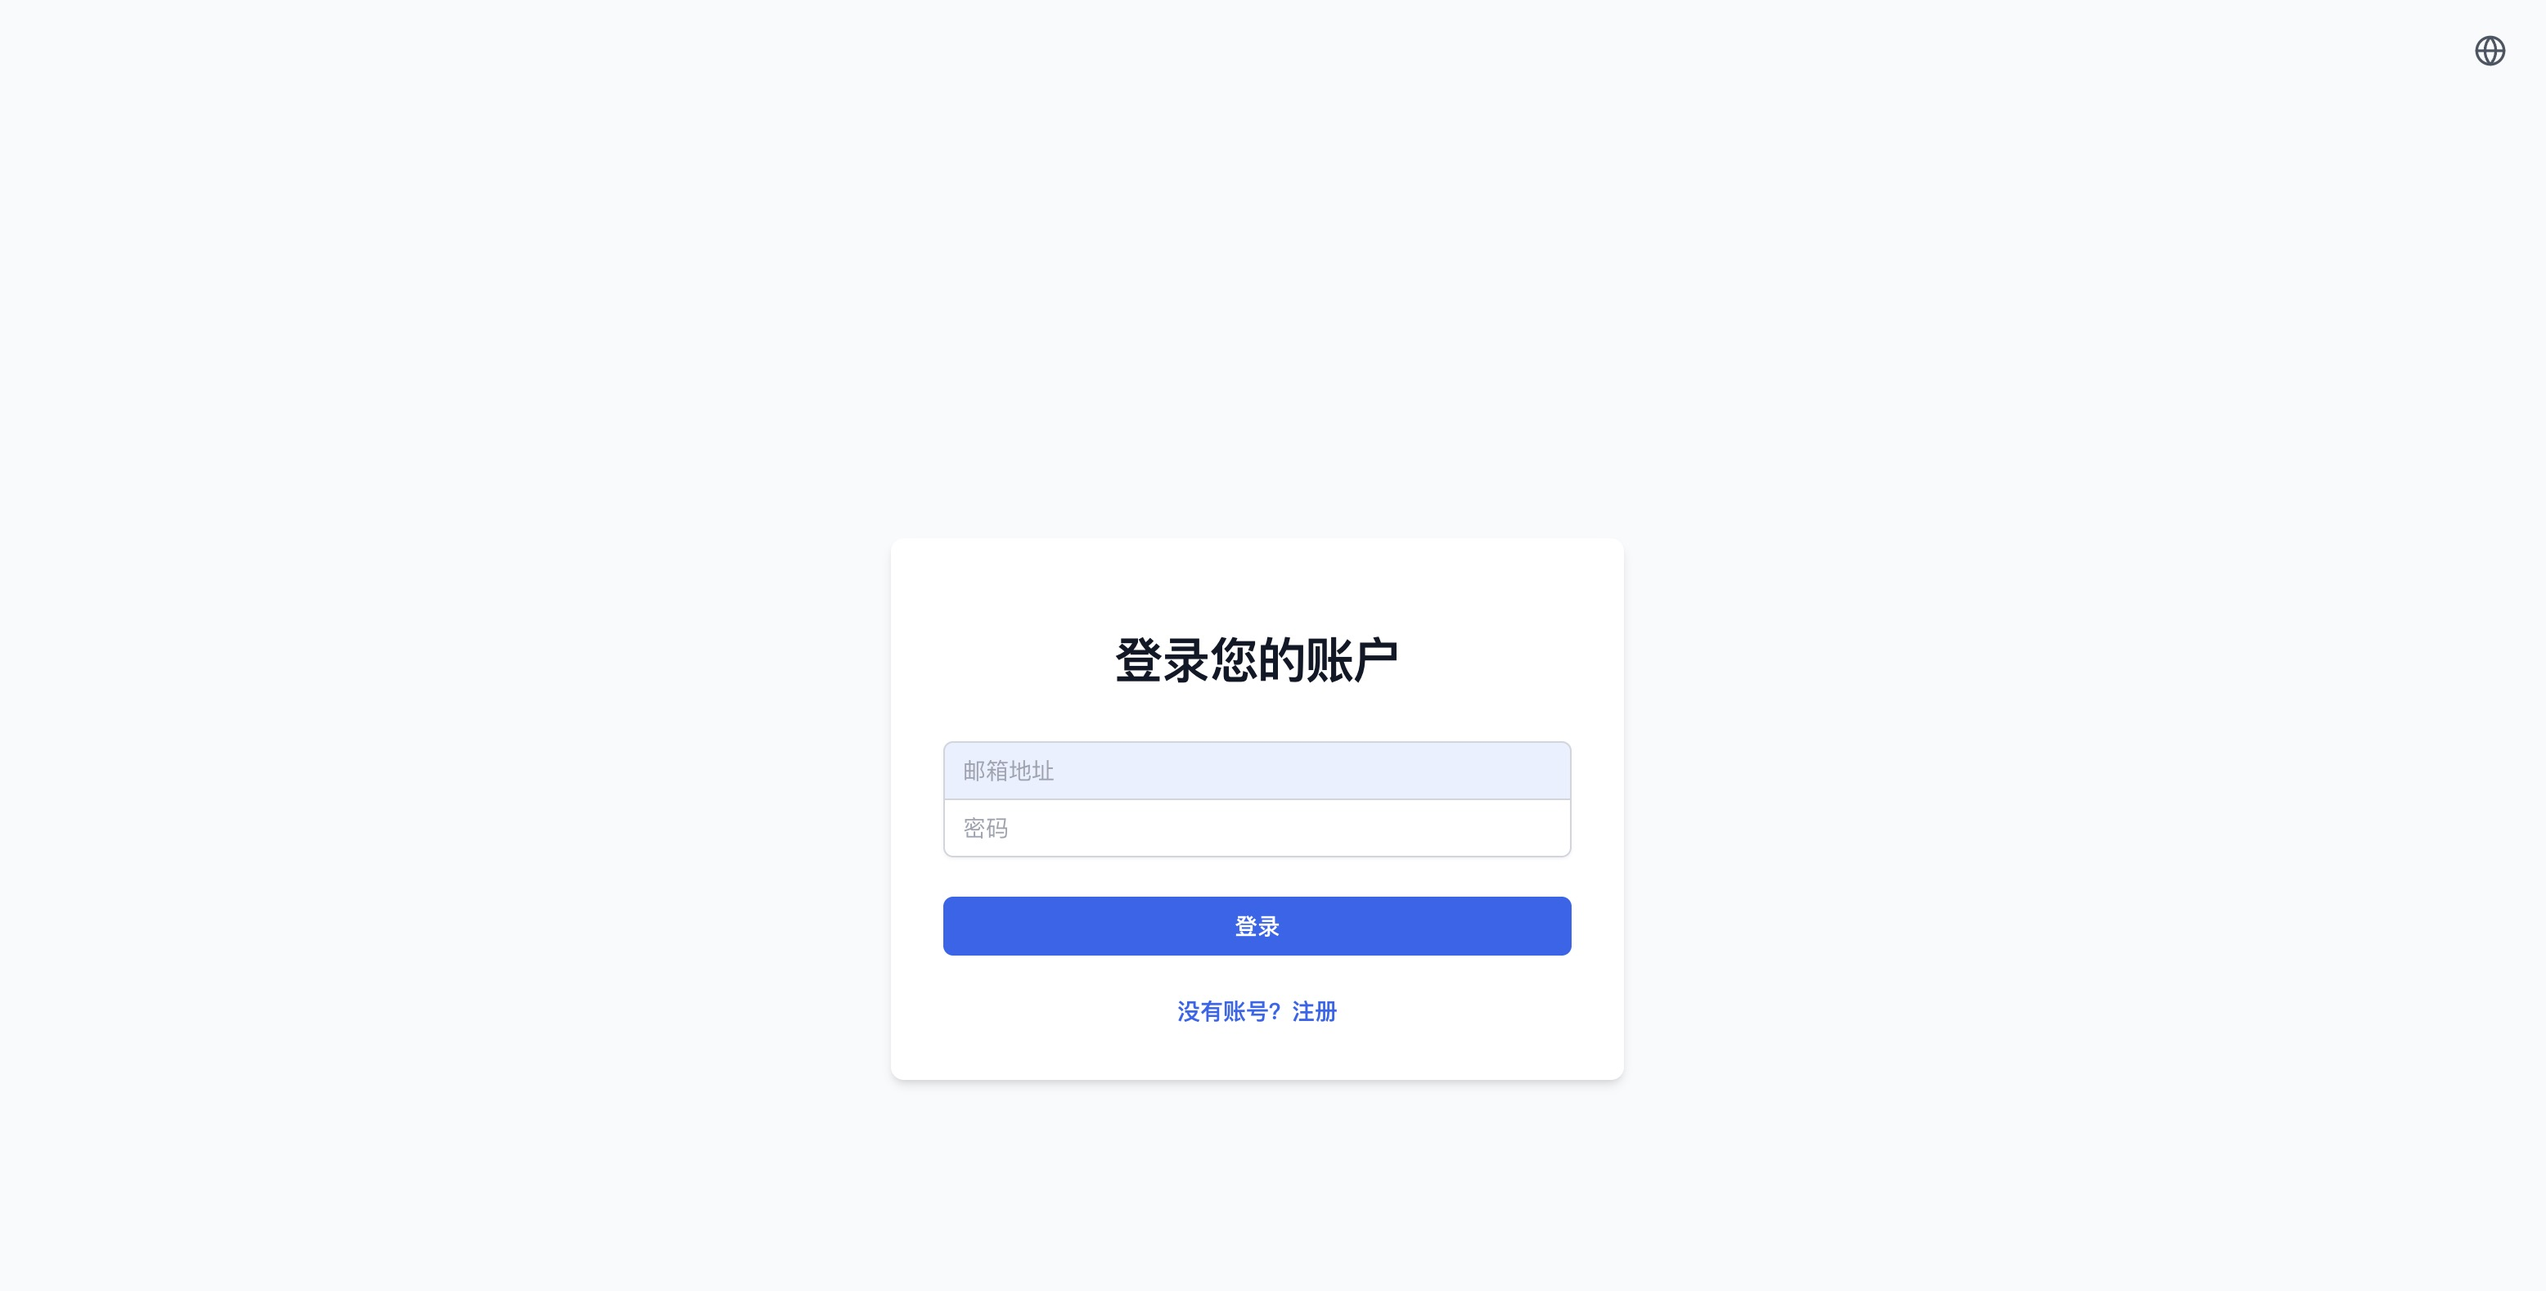
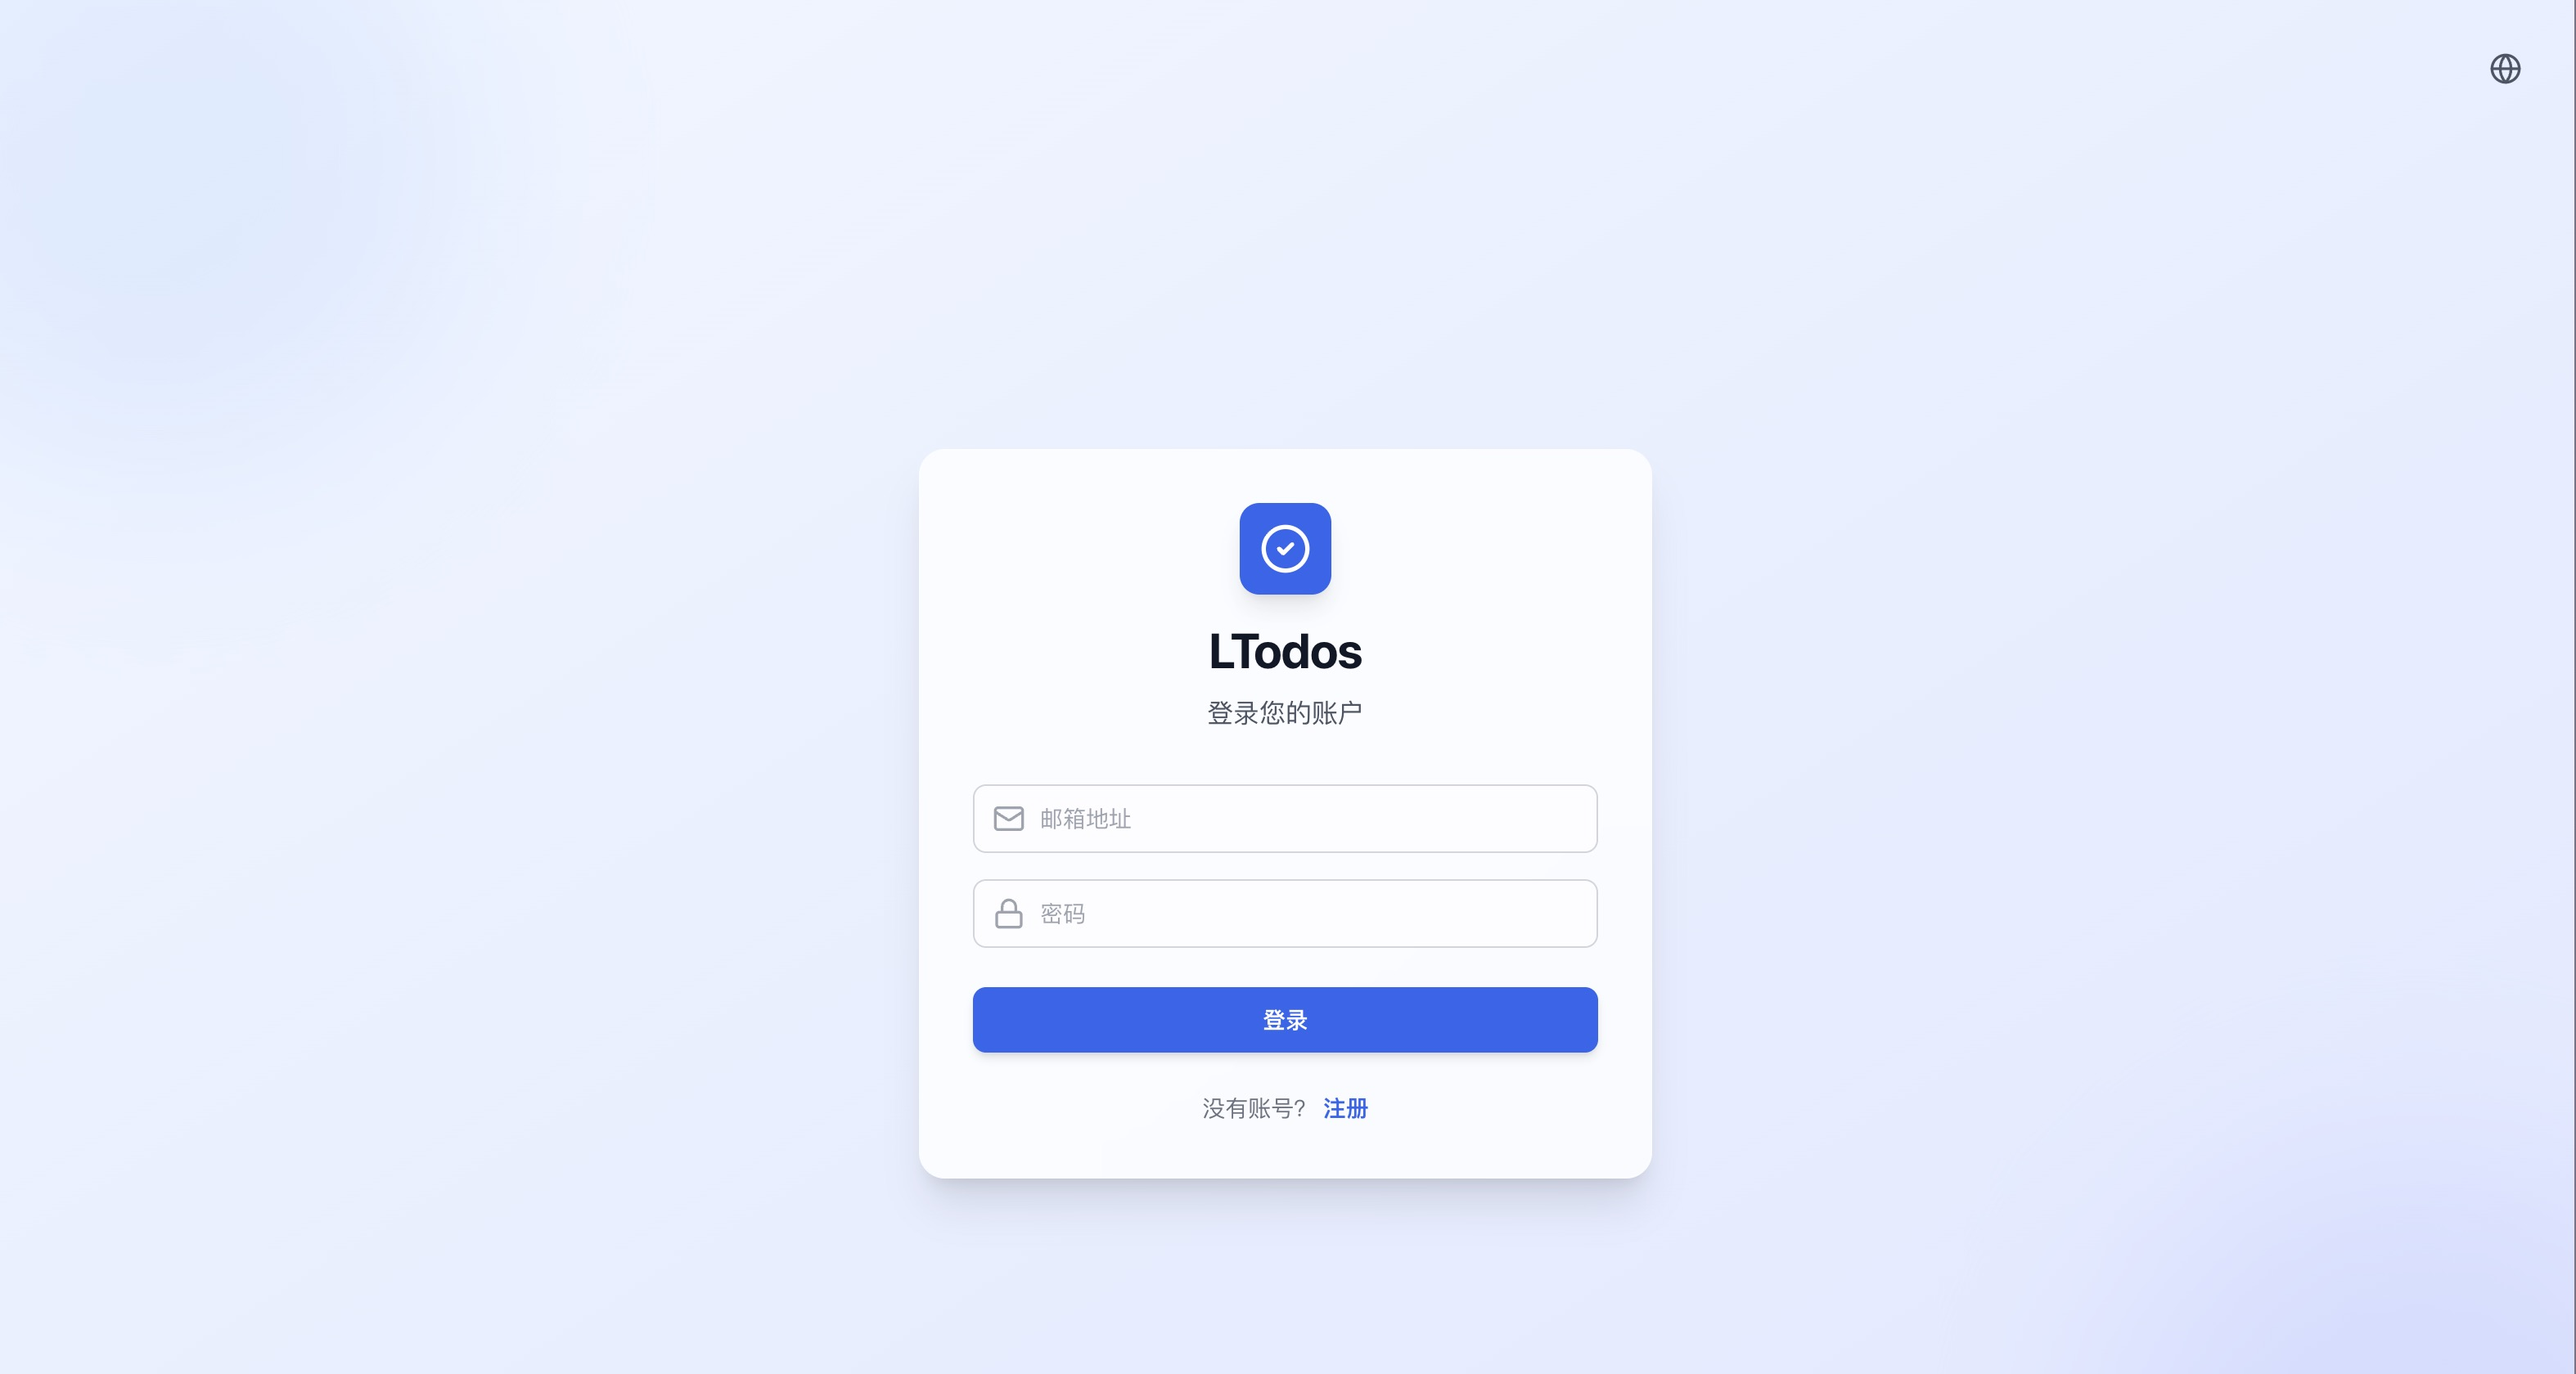
feat(登录页面): 优化登录页面UI并添加动画效果
重构登录页面布局，添加渐变色背景和动态blob动画。引入Lucide图标库增强表单输入体验，改进错误提示样式。同时调整语言切换器位置并优化注册提示链接的显示逻辑。

docs: 更新README文档样式和项目徽章
style: 在tailwind配置中添加blob动画关键帧

diff --git a/frontend/src/pages/Login.tsx b/frontend/src/pages/Login.tsx
@@ -1,6 +1,7 @@
 import React, { useState } from "react";
 import { useNavigate, Link } from "react-router-dom";
 import { useTranslation } from "react-i18next";
+import { CheckCircle2, Mail, Lock } from "lucide-react";
 import api from "../lib/api";
 import { useAuthStore } from "../store/auth-store";
 import LanguageSwitcher from "../components/LanguageSwitcher";
@@ -38,36 +39,56 @@ export default function Login() {
   };
 
   return (
-    <div className="flex min-h-screen items-center justify-center bg-gray-50 relative">
-      <div className="absolute top-4 right-4">
+    <div className="flex min-h-screen items-center justify-center bg-gradient-to-br from-blue-50 to-indigo-100 relative overflow-hidden">
+      {/* Decorative background elements */}
+      <div className="absolute -top-24 -left-24 w-96 h-96 bg-blue-200 rounded-full mix-blend-multiply filter blur-3xl opacity-30 animate-blob"></div>
+      <div className="absolute -bottom-24 -right-24 w-96 h-96 bg-indigo-200 rounded-full mix-blend-multiply filter blur-3xl opacity-30 animate-blob animation-delay-2000"></div>
+
+      <div className="absolute top-6 right-6 z-10">
         <LanguageSwitcher />
       </div>
-      <div className="w-full max-w-md space-y-8 p-8 bg-white rounded-lg shadow-md">
-        <div>
-          <h2 className="mt-6 text-center text-3xl font-bold tracking-tight text-gray-900">
-            {t("login.title")}
-          </h2>
+
+      <div className="w-full max-w-md p-8 bg-white/80 backdrop-blur-xl rounded-2xl shadow-xl border border-white/20 relative z-10">
+        <div className="flex flex-col items-center mb-8">
+          <div className="bg-blue-600 p-3 rounded-xl shadow-lg mb-4">
+            <CheckCircle2 className="w-8 h-8 text-white" />
+          </div>
+          <h1 className="text-3xl font-bold text-gray-900 tracking-tight">
+            LTodos
+          </h1>
+          <h2 className="mt-2 text-center text-gray-600">{t("login.title")}</h2>
         </div>
-        <form className="mt-8 space-y-6" onSubmit={handleSubmit}>
+
+        <form className="space-y-6" onSubmit={handleSubmit}>
           {error && (
-            <div className="text-red-500 text-sm text-center">{error}</div>
+            <div className="p-3 rounded-lg bg-red-50 border border-red-100 text-red-600 text-sm text-center">
+              {error}
+            </div>
           )}
-          <div className="-space-y-px rounded-md shadow-sm">
-            <div>
+
+          <div className="space-y-4">
+            <div className="relative group">
+              <div className="absolute inset-y-0 left-0 pl-3 flex items-center pointer-events-none">
+                <Mail className="h-5 w-5 text-gray-400 group-focus-within:text-blue-500 transition-colors" />
+              </div>
               <input
                 type="email"
                 required
-                className="relative block w-full rounded-t-md border-0 py-1.5 text-gray-900 ring-1 ring-inset ring-gray-300 placeholder:text-gray-400 focus:z-10 focus:ring-2 focus:ring-inset focus:ring-blue-600 sm:text-sm sm:leading-6 px-3"
+                className="block w-full pl-10 pr-3 py-2.5 border border-gray-300 rounded-lg leading-5 bg-white/50 placeholder-gray-400 focus:outline-none focus:ring-2 focus:ring-blue-500 focus:border-blue-500 transition-all sm:text-sm"
                 placeholder={t("login.emailPlaceholder")}
                 value={email}
                 onChange={(e) => setEmail(e.target.value)}
               />
             </div>
-            <div>
+
+            <div className="relative group">
+              <div className="absolute inset-y-0 left-0 pl-3 flex items-center pointer-events-none">
+                <Lock className="h-5 w-5 text-gray-400 group-focus-within:text-blue-500 transition-colors" />
+              </div>
               <input
                 type="password"
                 required
-                className="relative block w-full rounded-b-md border-0 py-1.5 text-gray-900 ring-1 ring-inset ring-gray-300 placeholder:text-gray-400 focus:z-10 focus:ring-2 focus:ring-inset focus:ring-blue-600 sm:text-sm sm:leading-6 px-3"
+                className="block w-full pl-10 pr-3 py-2.5 border border-gray-300 rounded-lg leading-5 bg-white/50 placeholder-gray-400 focus:outline-none focus:ring-2 focus:ring-blue-500 focus:border-blue-500 transition-all sm:text-sm"
                 placeholder={t("login.passwordPlaceholder")}
                 value={password}
                 onChange={(e) => setPassword(e.target.value)}
@@ -78,18 +99,45 @@ export default function Login() {
           <div>
             <button
               type="submit"
-              className="group relative flex w-full justify-center rounded-md bg-blue-600 px-3 py-2 text-sm font-semibold text-white hover:bg-blue-500 focus-visible:outline focus-visible:outline-2 focus-visible:outline-offset-2 focus-visible:outline-blue-600"
+              className="group relative flex w-full justify-center rounded-lg bg-blue-600 px-4 py-2.5 text-sm font-semibold text-white shadow-md hover:bg-blue-500 hover:shadow-lg focus-visible:outline focus-visible:outline-2 focus-visible:outline-offset-2 focus-visible:outline-blue-600 transition-all duration-200"
             >
               {t("login.submit")}
             </button>
           </div>
+
           <div className="text-center text-sm">
-            <Link
-              to="/register"
-              className="font-semibold text-blue-600 hover:text-blue-500"
-            >
-              {t("login.registerPrompt")}
-            </Link>
+            {(() => {
+              const prompt = t("login.registerPrompt");
+              const splitIndex = Math.max(
+                prompt.lastIndexOf("?"),
+                prompt.lastIndexOf("？")
+              );
+
+              if (splitIndex !== -1) {
+                const before = prompt.substring(0, splitIndex + 1);
+                const after = prompt.substring(splitIndex + 1).trim();
+                return (
+                  <>
+                    <span className="text-gray-500">{before} </span>
+                    <Link
+                      to="/register"
+                      className="font-semibold text-blue-600 hover:text-blue-500 hover:underline transition-all"
+                    >
+                      {after}
+                    </Link>
+                  </>
+                );
+              }
+
+              return (
+                <Link
+                  to="/register"
+                  className="font-semibold text-blue-600 hover:text-blue-500 hover:underline transition-all"
+                >
+                  {prompt}
+                </Link>
+              );
+            })()}
           </div>
         </form>
       </div>

diff --git a/frontend/tailwind.config.js b/frontend/tailwind.config.js
@@ -7,7 +7,27 @@ export default {
     container: {
       center: true,
     },
-    extend: {},
+    extend: {
+      animation: {
+        blob: "blob 7s infinite",
+      },
+      keyframes: {
+        blob: {
+          "0%": {
+            transform: "translate(0px, 0px) scale(1)",
+          },
+          "33%": {
+            transform: "translate(30px, -50px) scale(1.1)",
+          },
+          "66%": {
+            transform: "translate(-20px, 20px) scale(0.9)",
+          },
+          "100%": {
+            transform: "translate(0px, 0px) scale(1)",
+          },
+        },
+      },
+    },
   },
   plugins: [],
 };

diff --git a/README.md b/README.md
@@ -1,6 +1,17 @@
-# LTodos (待办事项应用)
+# LTodos (待办事项)
 
-![LTodos Banner](docs/dashboard1.jpg)
+<div align="center">
+
+![React](https://img.shields.io/badge/React-20232A?style=for-the-badge&logo=react&logoColor=61DAFB)
+![TypeScript](https://img.shields.io/badge/TypeScript-007ACC?style=for-the-badge&logo=typescript&logoColor=white)
+![NestJS](https://img.shields.io/badge/nestjs-%23E0234E.svg?style=for-the-badge&logo=nestjs&logoColor=white)
+![PostgreSQL](https://img.shields.io/badge/postgres-%23316192.svg?style=for-the-badge&logo=postgresql&logoColor=white)
+![Tailwind CSS](https://img.shields.io/badge/tailwindcss-%2338B2AC.svg?style=for-the-badge&logo=tailwind-css&logoColor=white)
+![Docker](https://img.shields.io/badge/docker-%230db7ed.svg?style=for-the-badge&logo=docker&logoColor=white)
+
+![Visitor Count](https://visitor-badge.laobi.icu/badge?page_id=LTodos.README)
+
+</div>
 
 基于 NestJS 和 React 构建的现代化全栈待办事项应用。支持多语言、团队协作和实时通知。
 
